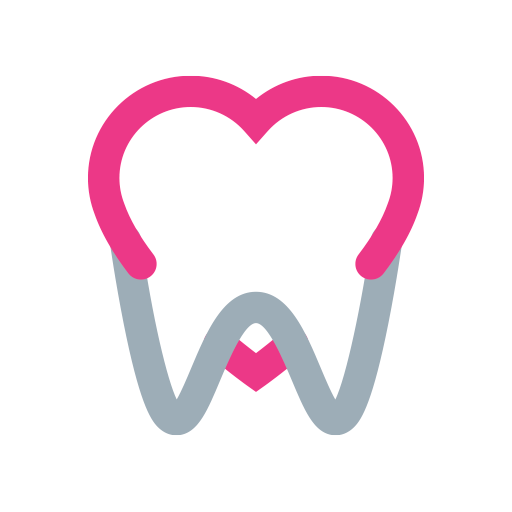
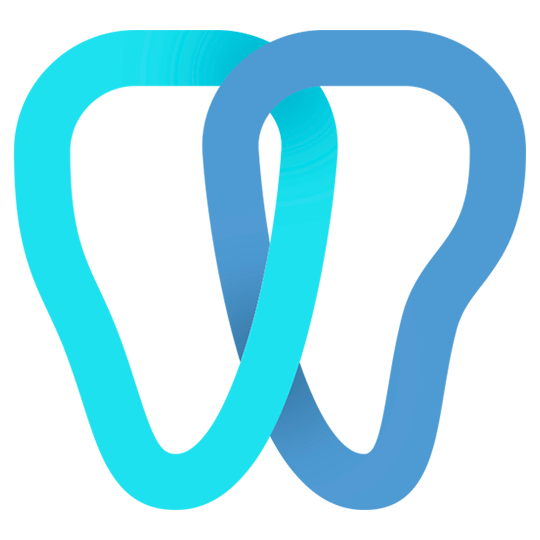
Nova identidade visual e ajustes na tela de login

diff --git a/assets/styles/pages/auth.scss b/assets/styles/pages/auth.scss
@@ -4,18 +4,19 @@
   display: flex;
   align-items: center;
   justify-content: center;
-  background-color: $primary;
+  background-image: linear-gradient(45deg, $primary, $secondary);
 
   &-container {
     width: res(420);
-    padding: res(20);
+    padding: res(70) res(20) res(20);
     border-radius: res(10);
     background-color: $white;
     box-shadow: 0 res(10) res(20) rgba(0, 0, 0, 0.2);
+    position: relative;
 
     @media (max-width: $size-notebook) {
-      width: res(420, notebook);
-      padding: res(20, notebook);
+      width: res(360, notebook);
+      padding: res(70, notebook) res(20, notebook) res(20, notebook);
       border-radius: res(10, notebook);
       box-shadow: 0 res(10, notebook) res(20, notebook) rgba(0, 0, 0, 0.2);
     }
@@ -23,12 +24,26 @@
 
   &__logo {
     display: block;
-    max-width: res(240);
-    margin: 0 auto res(20);
+    width: res(120);
+    height: res(120);
+    padding: res(10);
+    border-radius: 50%;
+    position: absolute;
+    top: res(-40);
+    left: 50%;
+    transform: translateX(-50%);
+    background-color: $white;
 
     @media (max-width: $size-notebook) {
-      max-width: res(240, notebook);
-      margin: 0 auto res(20, notebook);
+      width: res(120, notebook);
+      height: res(120, notebook);
+      padding: res(10, notebook);
+      top: res(-40, notebook);
+    }
+
+    img {
+      display: block;
+      width: 100%;
     }
   }
 

diff --git a/nuxt.config.js b/nuxt.config.js
@@ -9,14 +9,14 @@ export default {
 
   // Global page headers (https://go.nuxtjs.dev/config-head)
   head: {
-    titleTemplate: "%s",
-    title: "Odontolopes",
+    titleTemplate: "Odontopro — %s",
+    title: "Início",
     meta: [
       { charset: "utf-8" },
       { name: "viewport", content: "width=device-width, initial-scale=1" },
       { hid: "description", name: "description", content: "" },
     ],
-    link: [{ rel: "icon", type: "image/x-icon", href: "/favicon.ico" }],
+    link: [{ rel: "icon", type: "image/x-icon", href: "/favicon.png" }],
   },
 
   env: {
@@ -57,10 +57,10 @@ export default {
     theme: {
       dark: false,
       themes: {
-        dark: {
-          primary: "#cc3b84",
-          accent: "#aa3a6c",
-          secondary: "#3b45cc",
+        light: {
+          primary: "#6b9ad1",
+          accent: "#81e0ee",
+          secondary: "#81e0ee",
           info: colors.teal.lighten1,
           warning: colors.amber.base,
           error: colors.deepOrange.accent4,

diff --git a/pages/auth/login.vue b/pages/auth/login.vue
@@ -1,11 +1,9 @@
 <template>
   <section class="auth">
     <div class="auth-container">
-      <img
-        src="@/assets/images/logo.png"
-        alt="Odontolopes"
-        class="auth__logo"
-      />
+      <div class="auth__logo">
+        <img src="@/assets/images/symbol.png" alt="Odontopro" />
+      </div>
       <v-text-field
         v-model="formData.identifier"
         label="Usuário"
@@ -21,7 +19,12 @@
         type="password"
         class="auth__input"
       ></v-text-field>
-      <v-btn primary :disabled="loading" :loading="loading" @click="submitLogin"
+      <v-btn
+        block
+        color="primary"
+        :disabled="loading"
+        :loading="loading"
+        @click="submitLogin"
         >Entrar</v-btn
       >
       <v-alert v-if="message.show" :type="message.type">
@@ -48,7 +51,7 @@ export default {
     },
   }),
   head: {
-    title: "Odontolopes — Login",
+    title: "Login",
   },
   methods: {
     login,

diff --git a/pages/procedimentos/novo.vue b/pages/procedimentos/novo.vue
@@ -51,7 +51,7 @@ export default {
     },
   }),
   head: {
-    title: "Odontolopes — Novo procedimento",
+    title: "Novo procedimento",
   },
   methods: {
     registerProcedure() {

diff --git a/pages/consultas/nova.vue b/pages/consultas/nova.vue
@@ -62,7 +62,7 @@ export default {
     },
   }),
   head: {
-    title: "Odontolopes — Nova consulta",
+    title: "Nova consulta",
   },
   beforeMount() {
     listPatients(this);

diff --git a/pages/procedimentos/index.vue b/pages/procedimentos/index.vue
@@ -35,7 +35,7 @@ export default {
     items: [],
   }),
   head: {
-    title: "Odontolopes — Procedimentos",
+    title: "Procedimentos",
   },
   mounted() {
     list(this);

diff --git a/pages/pacientes/novo.vue b/pages/pacientes/novo.vue
@@ -74,7 +74,7 @@ export default {
     },
   }),
   head: {
-    title: "Odontolopes — Novo paciente",
+    title: "Novo paciente",
   },
   methods: {
     registerPatient() {

diff --git a/pages/clinicas/nova.vue b/pages/clinicas/nova.vue
@@ -44,7 +44,7 @@ export default {
     },
   }),
   head: {
-    title: "Odontolopes — Nova clínica",
+    title: "Nova clínica",
   },
   methods: {
     registerClinic() {

diff --git a/pages/clinicas/index.vue b/pages/clinicas/index.vue
@@ -34,7 +34,7 @@ export default {
     items: [],
   }),
   head: {
-    title: "Odontolopes — Clínicas",
+    title: "Clínicas",
   },
   mounted() {
     list(this);

diff --git a/pages/consultas/index.vue b/pages/consultas/index.vue
@@ -51,7 +51,7 @@ export default {
     items: [],
   }),
   head: {
-    title: "Odontolopes — Consultas",
+    title: "Consultas",
   },
   mounted() {
     list(this);

diff --git a/pages/pacientes/index.vue b/pages/pacientes/index.vue
@@ -36,7 +36,7 @@ export default {
     items: [],
   }),
   head: {
-    title: "Odontolopes — Pacientes",
+    title: "Pacientes",
   },
   mounted() {
     list(this);

diff --git a/assets/styles/general/variables.scss b/assets/styles/general/variables.scss
@@ -1,6 +1,6 @@
 // Colors
-$primary: #cc3b84;
-$secondary: #3b45cc;
+$primary: #6b9ad1;
+$secondary: #81e0ee;
 $black: #000;
 $gray: #555;
 $silver: #eee;
